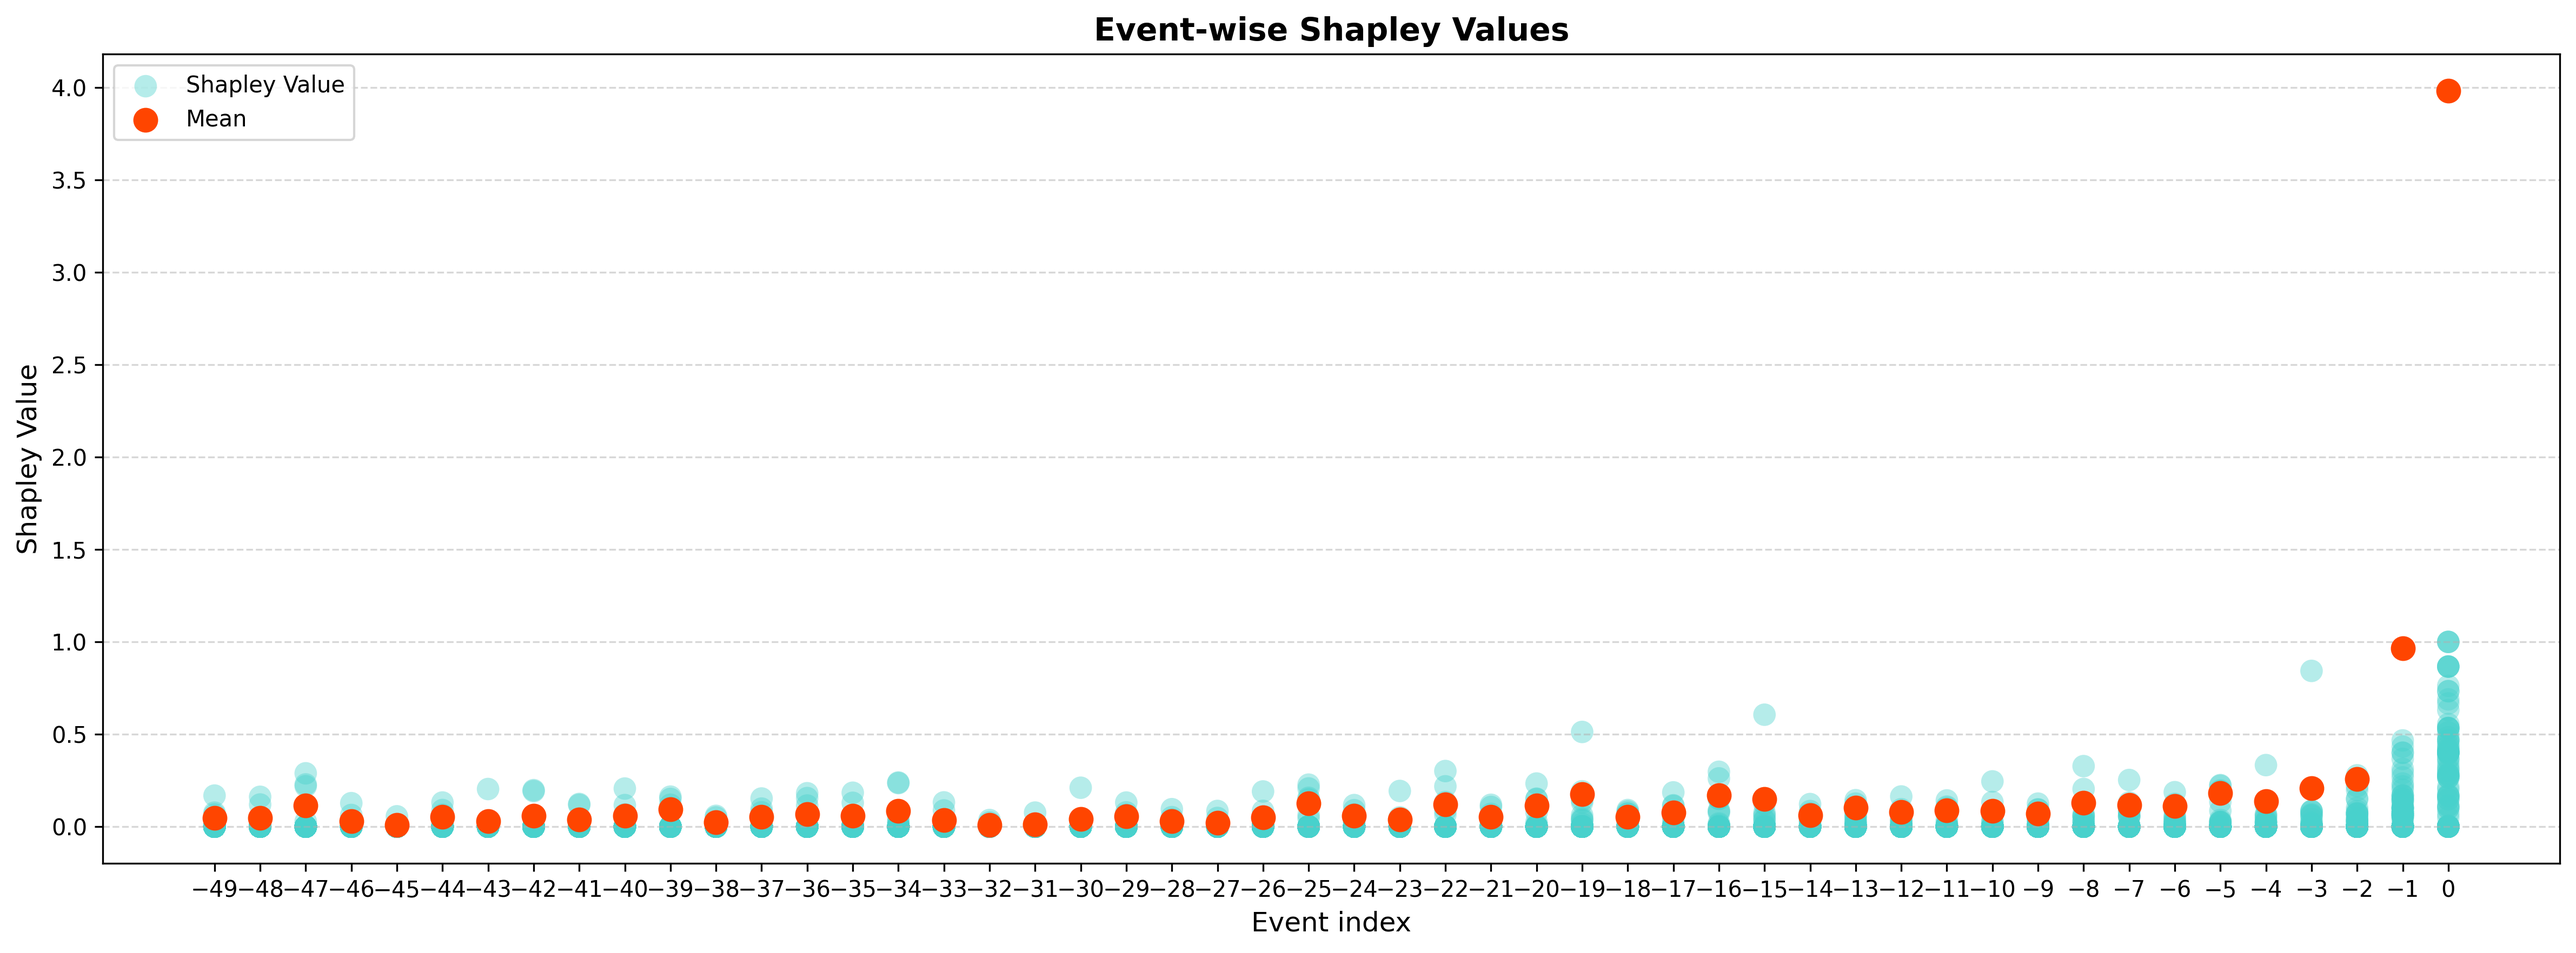
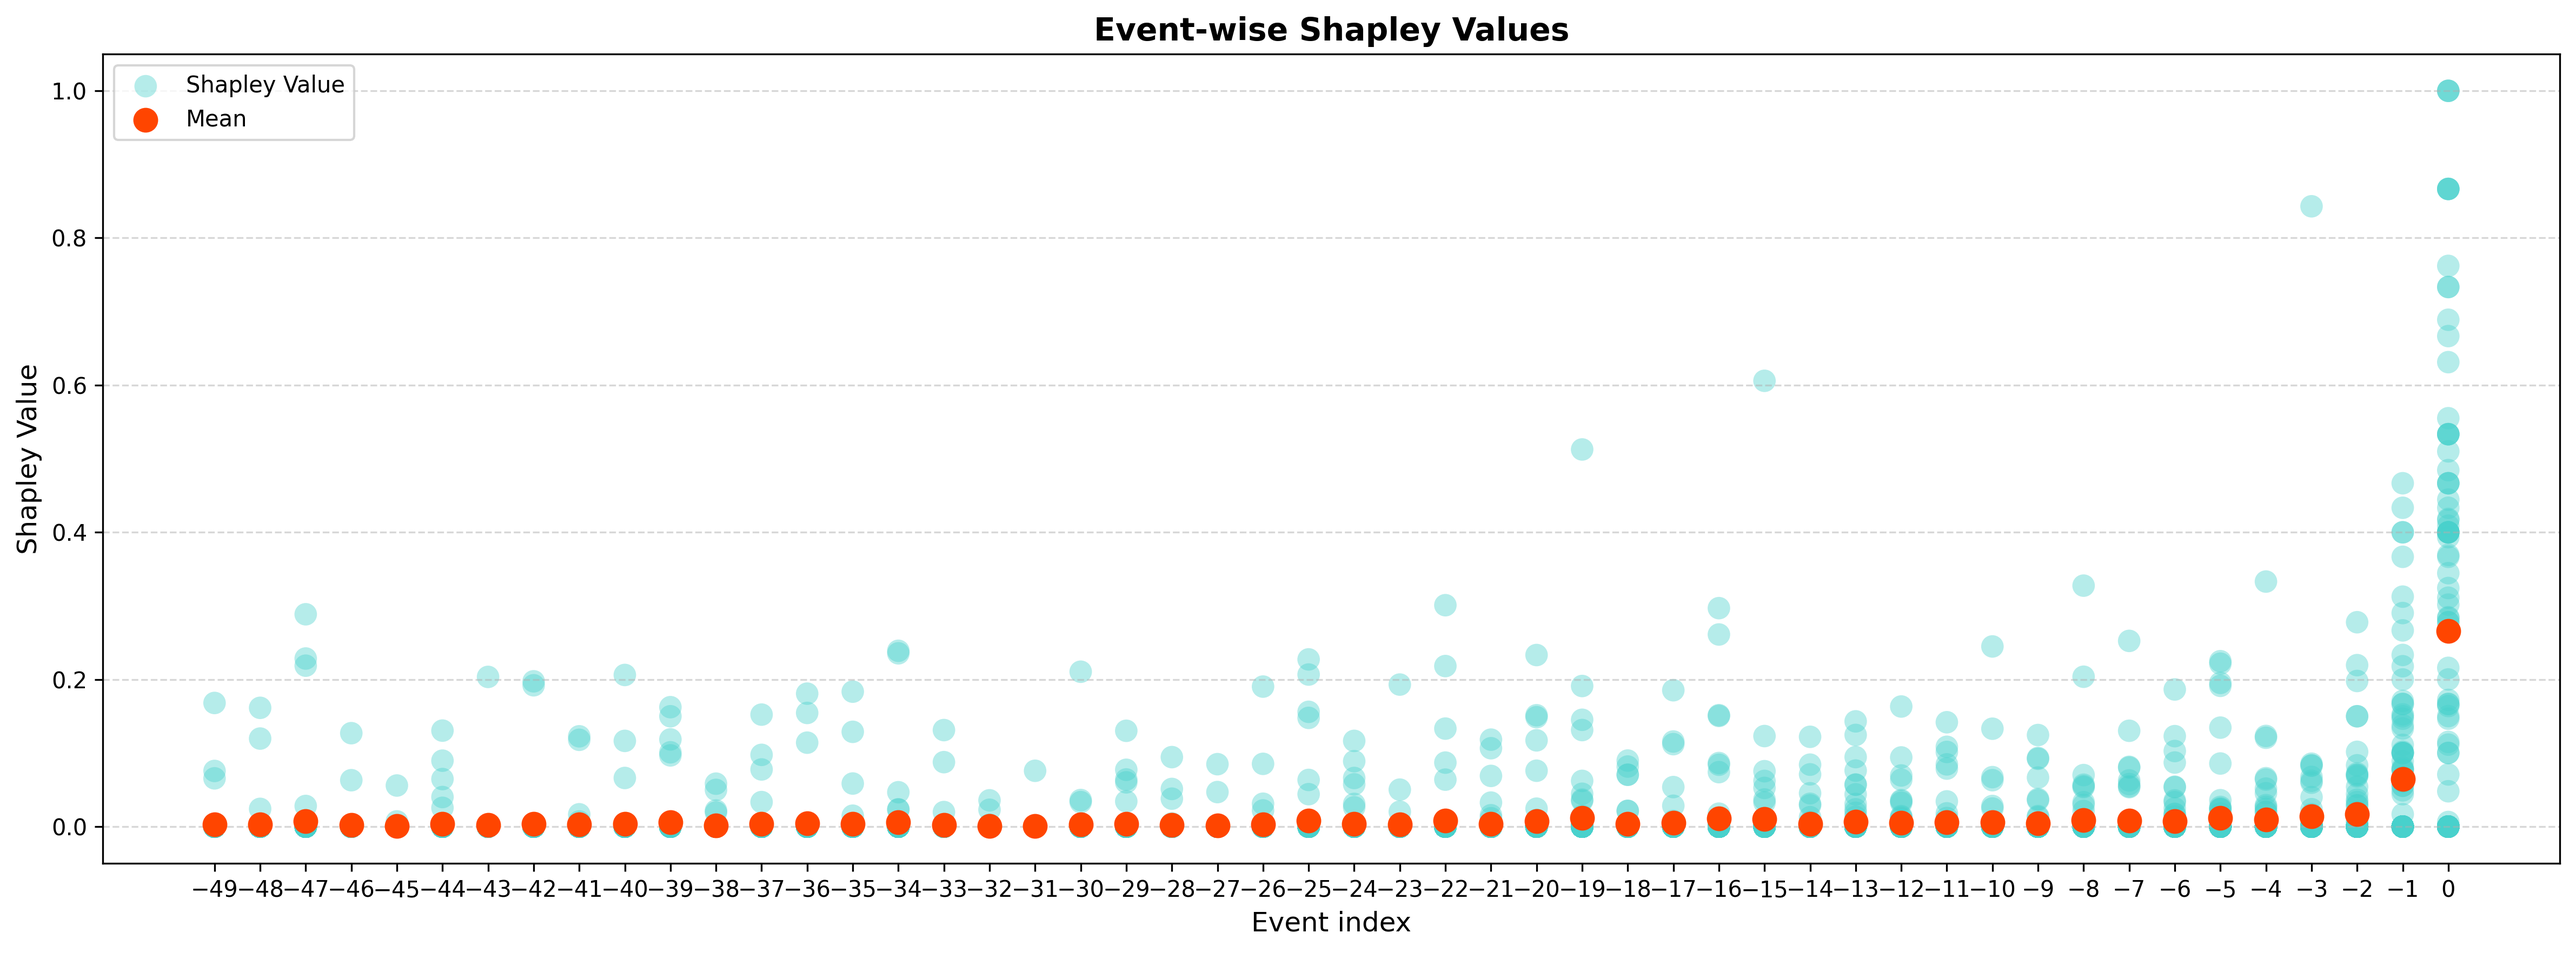
different average mask

diff --git a/TFPORL-main/pomdp-discrete/perform_explainability.py b/TFPORL-main/pomdp-discrete/perform_explainability.py
@@ -150,13 +150,20 @@ def explain(learner: Learner, num_trajs: int = 3, last_k: int = 30, top_k: int =
 
     #avg_data = pd.DataFrame(np.concatenate([traj.squeeze(0) for traj in trajectories], axis=0))
     #avg_data = pd.DataFrame(trajectories.pop(0).squeeze(0))
-    stacked = np.concatenate(trajectories, axis=0)
-    reshaped = stacked.reshape(-1, stacked.shape[-1])
-    avg_data = pd.DataFrame(reshaped)
 
-    avg_data.columns = avg_data.columns.astype(str)
-    avg_event = calc_avg_event(data=avg_data,
-                               numerical_feats=model_features, categorical_feats=[]).astype(float)
+    all_ones = True
+    if not all_ones:
+        stacked = np.concatenate(trajectories, axis=0)
+        reshaped = stacked.reshape(-1, stacked.shape[-1])
+        avg_data = pd.DataFrame(reshaped)
+
+        avg_data.columns = avg_data.columns.astype(str)
+        avg_event = calc_avg_event(data=avg_data,
+                                   numerical_feats=model_features, categorical_feats=[]).astype(float)
+    else:
+        avg_event = pd.DataFrame(np.ones((1, 78)))
+        avg_event.columns = avg_event.columns.astype(str)
+
     # Prepare TimeSHAP input dictionaries
     pruning_dict = {'tol': 0.001}
     event_dict = {'rs': 42, 'nsamples': 100}
@@ -321,9 +328,6 @@ def plot_event_multi(events=None, last_k=30, load_path=None, save_path="shapley_
     events = np.array(events)
     events = events[:, -last_k:]  # keep all trajs, last k timesteps
 
-    mean_vals = np.mean(events, axis=0)
-
-
     # Scaling factor to shift event 0 mean to 0.5
     #scale = 0.5 / np.max(mean_vals) if np.max(mean_vals) != 0 else 1.0
     #events = events * scale
@@ -356,6 +360,7 @@ def plot_event_multi(events=None, last_k=30, load_path=None, save_path="shapley_
             label='Shapley Value' if i == 0 else None
         )
 
+    mean_vals = np.mean(events, axis=0)
     # Plot mean Shapley values
     plt.scatter(
         x_labels, mean_vals,
@@ -593,8 +598,8 @@ def plot_restoration_occured(restorations):
 
 
 if __name__ == "__main__":
-    learner = initialize_learner_with_flags(save_dir='logs_results/network-defender/final/mamba/seed-1')
-    explain(learner, num_trajs=100, last_k=50, top_k=15, model="mamba", tag="final-avg")
+    learner = initialize_learner_with_flags(save_dir='logs_results/mini-cage/final/standard/lstm/seed-1')
+    explain(learner, num_trajs=5, last_k=50, top_k=15, model="lstm", tag="test_ones")
 
     #trajs, infiltrations, restorations = generate_trajs(learner, num_trajs=100)
     #plot_infiltration_nodes(infiltrations, save_path="infiltration_timing_plot.png")
@@ -602,6 +607,6 @@ if __name__ == "__main__":
     #plot_variance_timesteps(trajs)
     #plot_restoration_occured(restorations)
 
-    #plot_event_multi(load_path='explainability/mini-cage_lstm_test_events_last50_traj2.npy', last_k=50)
+    #plot_event_multi(load_path='explainability/network-defender_mlp_final-avg_events_last50_traj100.npy', last_k=50)
     #plot_feature_multi(load_path='explainability/network-defender_lru_final_features_top10_traj100.npz', top_k=15)
 

diff --git a/TFPORL-main/pomdp-discrete/main_eval.py b/TFPORL-main/pomdp-discrete/main_eval.py
@@ -18,7 +18,7 @@ FLAGS = flags.FLAGS
 
 config_flags.DEFINE_config_file(
     "config_env",
-    "configs/envs/network-defender.py",  # Change env here!
+    "configs/envs/mini-cage.py",  # Change env here!
     "File path to the environment configuration.",
     lock_config=False,
 )
